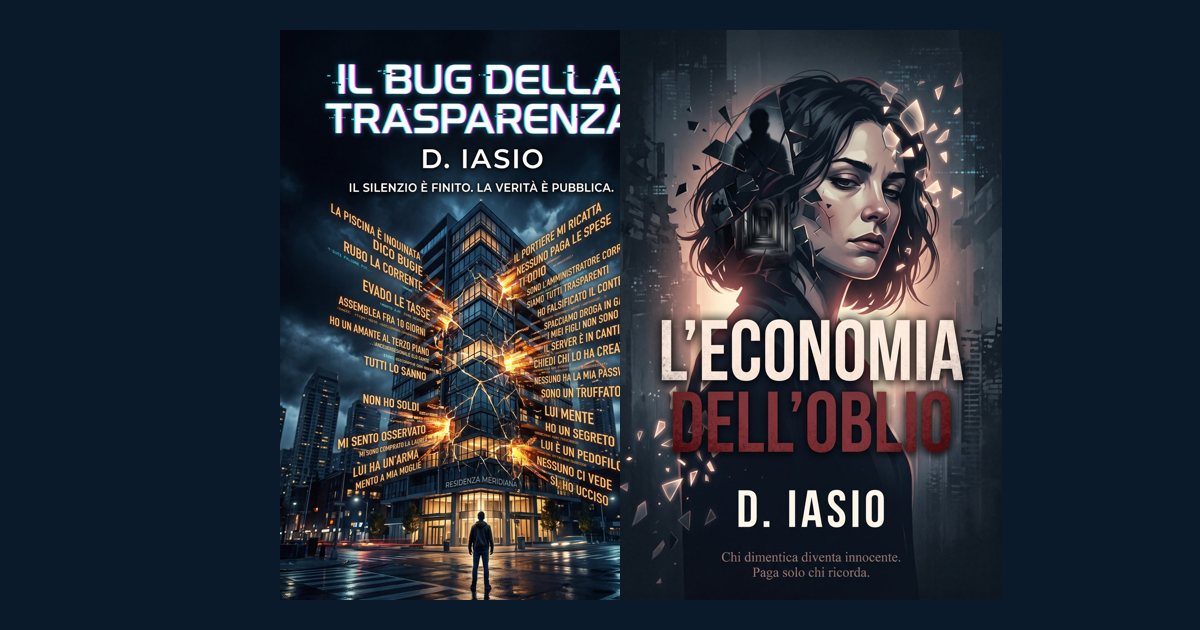
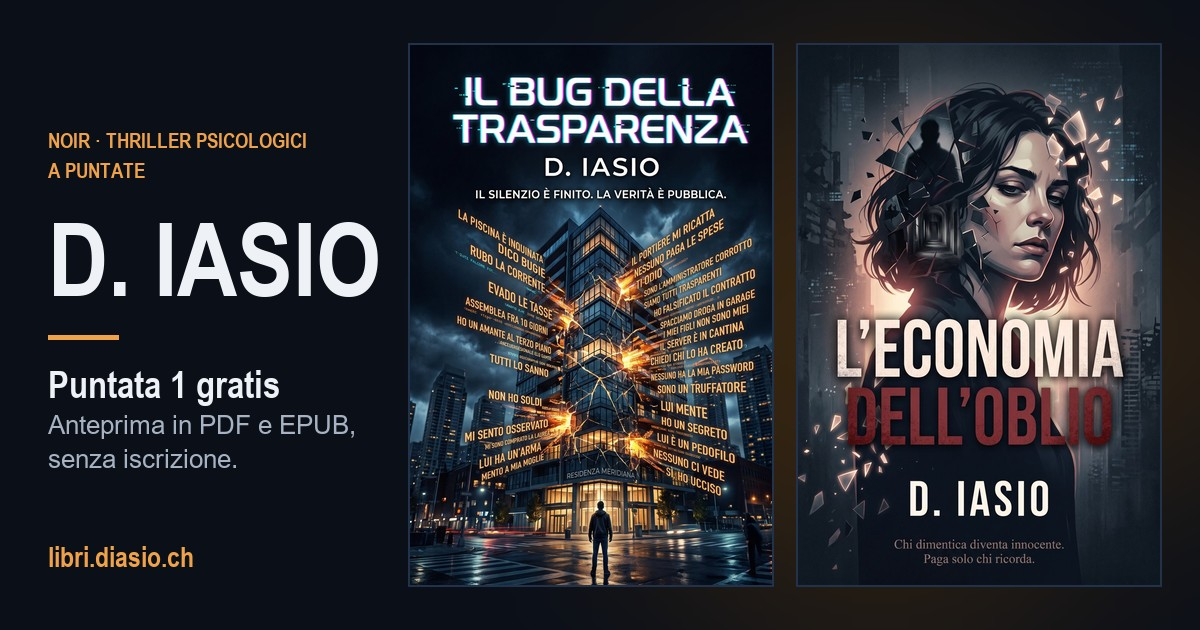
Aggiunge /grazie/ (conferma iscrizione) e corregge l'immagine social
- nuova pagina /grazie/ nello stile del sito, noindex, con download Puntata 1
- og-home.jpg: copertine intere e affiancate (prima sovrapposte/tagliate)
- robots.txt: Disallow /grazie/

diff --git a/grazie/index.html b/grazie/index.html
@@ -1,0 +1,93 @@
+<!DOCTYPE html>
+<html lang="it">
+<head>
+<meta charset="utf-8">
+<meta name="viewport" content="width=device-width, initial-scale=1, viewport-fit=cover">
+<title>Iscrizione confermata · D. Iasio</title>
+<meta name="description" content="Iscrizione alla newsletter di D. Iasio confermata. Scarica subito la Puntata 1 dei due romanzi.">
+<meta name="robots" content="noindex, follow">
+<link rel="canonical" href="https://libri.diasio.ch/grazie/">
+<meta http-equiv="Content-Security-Policy" content="default-src 'self'; img-src 'self' data:; style-src 'self' 'unsafe-inline'; script-src 'self'; font-src 'self'; connect-src 'self'; base-uri 'self'; form-action 'self'">
+<meta name="referrer" content="strict-origin-when-cross-origin">
+<meta name="theme-color" content="#0a0f18">
+<meta property="og:type" content="website">
+<meta property="og:locale" content="it_CH">
+<meta property="og:site_name" content="D. Iasio">
+<meta property="og:title" content="Iscrizione confermata · D. Iasio">
+<meta property="og:description" content="Iscrizione alla newsletter di D. Iasio confermata. Scarica subito la Puntata 1 dei due romanzi.">
+<meta property="og:url" content="https://libri.diasio.ch/grazie/">
+<meta property="og:image" content="https://libri.diasio.ch/img/og-home.jpg">
+<meta name="twitter:card" content="summary_large_image">
+<link rel="icon" href="/favicon.svg" type="image/svg+xml">
+<link rel="preload" href="/fonts/Oswald-700.woff2" as="font" type="font/woff2" crossorigin>
+<link rel="preload" href="/fonts/SourceSerif4-400.woff2" as="font" type="font/woff2" crossorigin>
+<link rel="stylesheet" href="/css/fonts.css">
+<link rel="stylesheet" href="/css/style.css">
+</head>
+<body class="theme-home">
+<a class="skip" href="#contenuto">Vai al contenuto</a>
+<header class="site-header">
+<div class="wrap">
+<a class="brand" href="/" aria-label="D. Iasio, pagina iniziale">D<span>.</span> IASIO</a>
+<nav class="nav" aria-label="Principale">
+<a href="/bug/">Il Bug della Trasparenza</a>
+<a href="/oblio/">L’Economia dell’Oblio</a>
+<a href="/#iscrizione">Newsletter</a>
+</nav>
+</div>
+</header>
+<main id="contenuto">
+<section class="hero">
+<div class="wrap" style="display:block">
+<p class="kicker">Iscrizione confermata</p>
+<h1>Grazie, sei dentro.</h1>
+<p class="lead">Da ora ricevi una mail quando esce la prossima storia, con qualche estratto. Niente rumore. Intanto la Puntata 1 è tua: scegli da quale libro cominciare.</p>
+</div>
+</section>
+<section aria-labelledby="t-scarica" style="padding-top:8px">
+<div class="wrap">
+<h2 id="t-scarica" class="kicker" style="font-size:.9rem">Scarica la Puntata 1</h2>
+<div class="books">
+<div class="book-card bug">
+<img src="/img/cover-bug-sm.jpg" width="150" height="224" alt="Copertina de Il Bug della Trasparenza: un palazzo notturno attraversato da frasi arancioni" loading="eager">
+<div>
+<p class="kicker">Noir sociale · 8 puntate</p>
+<h3>Il Bug della Trasparenza</h3>
+<p>In un condominio d’élite l’app di gestione comincia a rivelare le bugie dei vicini.</p>
+<div class="btn-row" style="margin-top:12px">
+<a class="btn primary" href="/download/il-bug-della-trasparenza-puntata-1.pdf" download>PDF</a>
+<a class="btn" href="/download/il-bug-della-trasparenza-puntata-1.epub" download>EPUB</a>
+</div>
+</div>
+</div>
+<div class="book-card oblio">
+<img src="/img/cover-oblio-sm.jpg" width="150" height="224" alt="Copertina de L’Economia dell’Oblio: il volto di una donna che si frantuma in schegge di vetro" loading="eager">
+<div>
+<p class="kicker">Thriller psicologico · 6 puntate</p>
+<h3>L’Economia dell’Oblio</h3>
+<p>Il dolore si estrae e si vende. Una tecnica scopre nella propria testa i frammenti di un omicidio.</p>
+<div class="btn-row" style="margin-top:12px">
+<a class="btn primary" href="/download/leconomia-delloblio-puntata-1.pdf" download>PDF</a>
+<a class="btn" href="/download/leconomia-delloblio-puntata-1.epub" download>EPUB</a>
+</div>
+</div>
+</div>
+</div>
+</div>
+</section>
+<section>
+<div class="wrap">
+<p class="fine" style="color:var(--muted)">Puoi disiscriverti in ogni momento dal link in fondo a ogni email. <a href="/privacy/">Informativa sulla privacy</a>.</p>
+</div>
+</section>
+</main>
+<footer class="site-footer">
+<div class="wrap">
+<span>© <span data-year>2026</span> D. Iasio · Tutti i diritti riservati</span>
+<span><a href="/privacy/">Informativa sulla privacy</a> · <a href="mailto:davide@diasio.ch">Contatto</a></span>
+</div>
+</footer>
+<script src="/js/config.js"></script>
+<script src="/js/main.js"></script>
+</body>
+</html>
